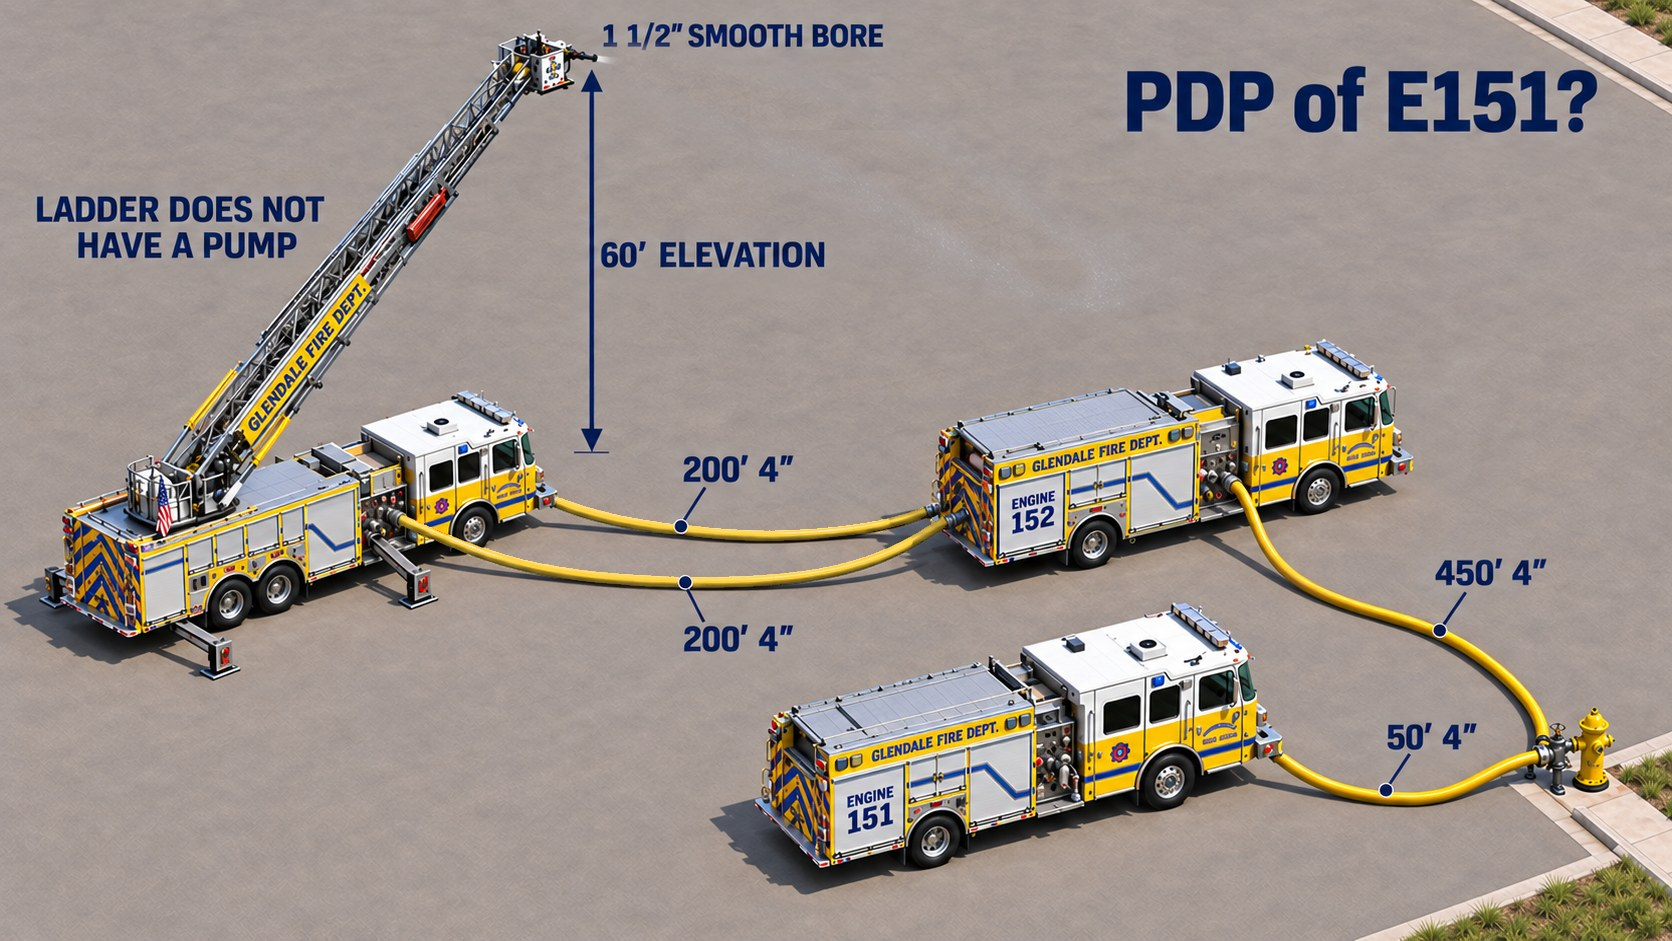
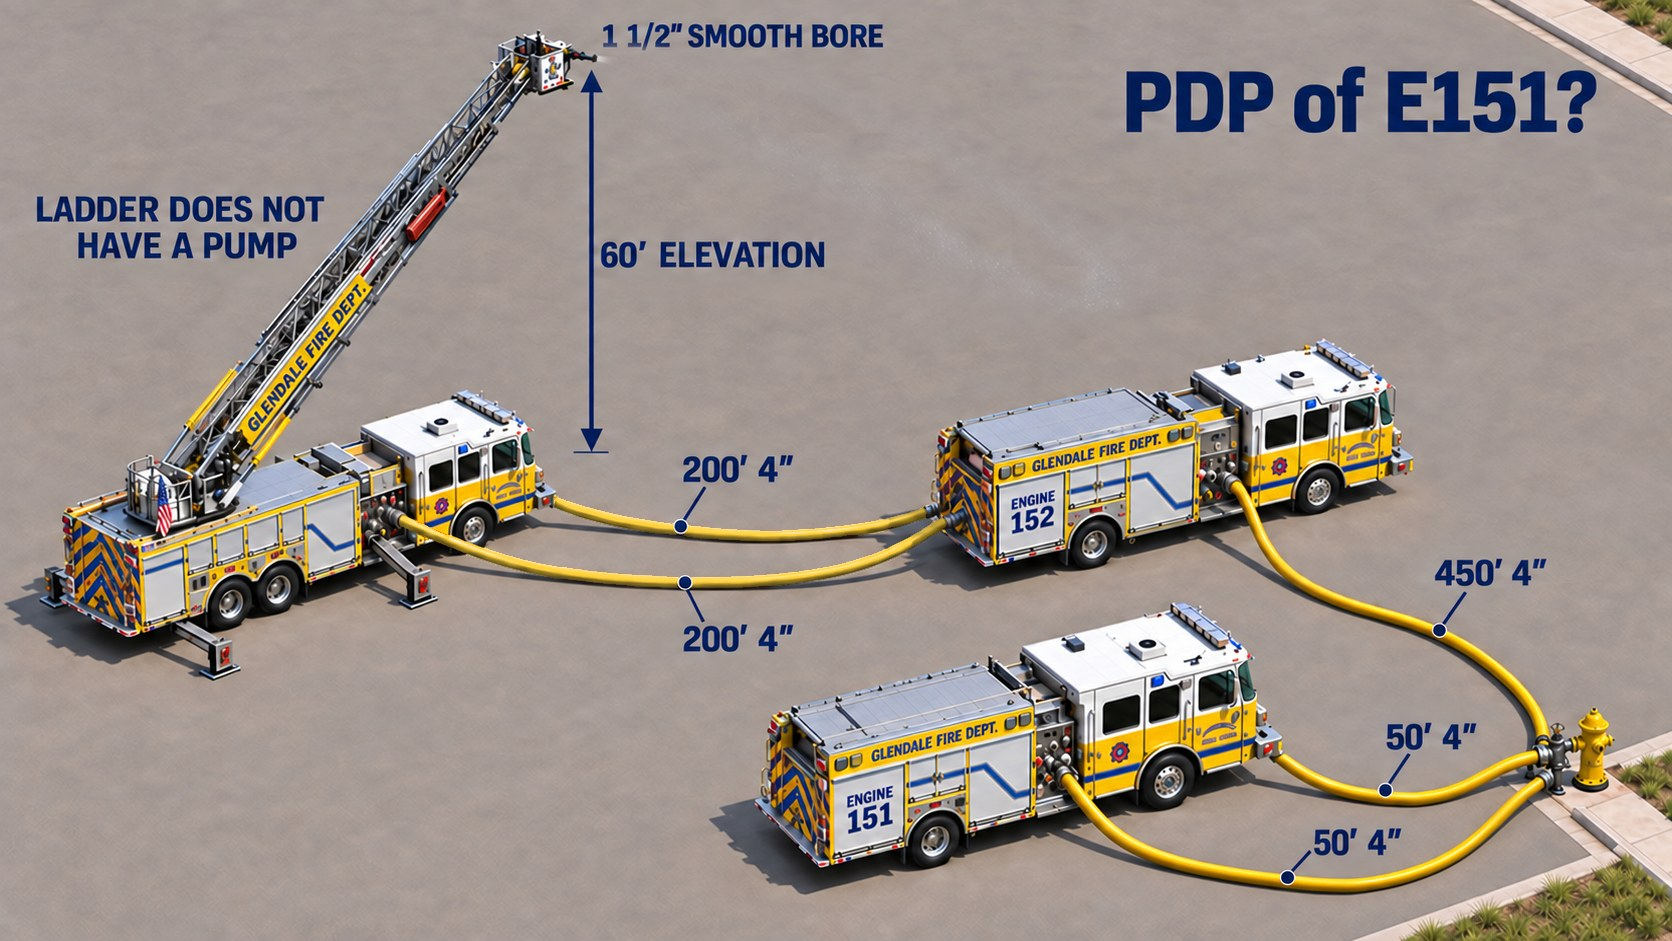
Rebuild evolution 5 on the new relay photo with 500' of 4"
E151 relays to E152 through 450' plus a 50' section of 4"; E152 feeds a
ladder flowing a 1-1/2" tip at 600 gpm. FL is 33.75 + 3.75 = 37.5, plus
20 pump to pump, for a PDP of 57.5. New photo with the 200' lines recolored
and the ladder spray removed; water runs from E151 through the manifold,
up to E152, out both lines and up the ladder.

Claude-Session: https://claude.ai/code/session_01UESrdwK4QgpMKy1a2PjDfm

diff --git a/index.html b/index.html
@@ -572,13 +572,13 @@
       }],
     },
     {
-      id: 'e5', title: 'Evolution 5', sub: 'E151 relaying to E152, 450′ 4″; E152 feeds Ladder 152', image: 'scene-relay.jpg', verdict: 'bottom',
+      id: 'e5', title: 'Evolution 5', sub: 'E151 relaying 450′ + 50′ of 4″ to E152, which feeds a ladder', image: 'scene-relay.jpg',
       lines: [{
-        name: 'E151 to E152', desc: 'relay · 450′ 4″ · ladder flowing a 1½″ tip',
-        length: 450, size: '4', nozzle: 'tip-150', relay: 'E152', appliance: 'pump-to-pump', elevationFt: 0,
-        // 450′ from E151 to E152, then E152's two 200′ lines to the ladder, then the waterway to the tip
-        path: 'M 1536 758 L 1541 753 L 1541 733 L 1536 713 L 1518 689 L 1486 660 L 1455 640 L 1425 627 L 1338 599 L 1295 574 L 1273 555 L 1259 531 L 1253 493 L 1259 490 L 1289 496 M 923 512 L 860 528 L 802 534 L 734 534 L 673 529 L 610 518 L 565 505 L 557 497 M 914 539 L 873 559 L 820 573 L 741 581 L 664 581 L 585 575 L 518 564 L 437 536 L 403 519 M 180 480 L 585 70 L 600 60',
-        tip: [600, 60], stream: 'arc', arc: { c: [254, 40], end: [560, 285] }, mask: '0,0 0,0 0,0',
+        name: 'E151 to E152', desc: 'relay · 500′ of 4″ · ladder flowing a 1½″ tip',
+        hose: [{ length: 450, size: '4' }, { length: 50, size: '4' }], nozzle: 'tip-150', relay: 'E152', appliance: 'pump-to-pump', elevationFt: 0,
+        // E151's 50′ to the manifold, the 450′ up to E152, E152's two 200′ lines to the ladder, then the waterway to the tip
+        path: 'M 1296 769 L 1325 783 L 1351 791 L 1389 797 L 1420 797 L 1521 774 L 1536 753 L 1540 744 M 1538 759 L 1536 732 L 1529 706 L 1486 660 L 1461 644 L 1426 627 L 1377 611 L 1332 591 L 1290 555 L 1255 515 M 924 506 L 917 515 L 868 528 L 817 533 L 753 535 L 635 523 L 578 510 L 562 504 L 557 498 M 938 527 L 879 557 L 842 569 L 777 579 L 701 582 L 615 578 L 534 568 L 497 558 L 437 536 L 404 520 M 200 520 L 560 70 L 597 58',
+        tip: [597, 58], stream: 'arc', arc: { c: [250, 20], end: [480, 230] }, mask: '0,0 0,0 0,0',
       }],
     },
     {

diff --git a/README.md b/README.md
@@ -22,7 +22,7 @@ The user enters every value for each line. The app totals the PDP live. Pressing
 | 3 · Line 1 | 150′ 1¾″ smooth bore | 50 | 57 | 0 | 0 | **107** |
 | 3 · Line 2 | 200′ 1¾″ smooth bore | 50 | 76 | 0 | 0 | **126** |
 | 4 | E159 supplying Ladder 152 through 450′ of 4″, 1⅜″ stack tip 100′ up | 80 | 22.5 | 40 | 50 | **192.5** |
-| 5 | E151 relaying 450′ of 4″ to E152, which feeds Ladder 152 (1½″ tip, 600 gpm) | 0 | 33.75 | 20 | 0 | **53.75** |
+| 5 | E151 relaying 450′ + 50′ of 4″ to E152, which feeds a ladder (1½″ tip, 600 gpm) | 0 | 37.5 | 20 | 0 | **57.5** |
 | 6 · Deck gun | 2″ stack tip on E151, no hose, Stang gun | 80 | 0 | 25 | 0 | **105** |
 | 6 · Handline | 200′ 1¾″ smooth bore | 50 | 76 | 0 | 0 | **126** |
 | 7 · Deck gun | Fog master stream on E151, no hose, Stang gun | 100 | 0 | 25 | 0 | **125** |
